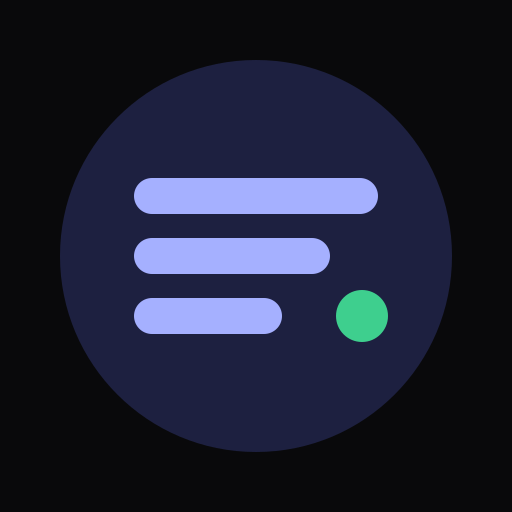
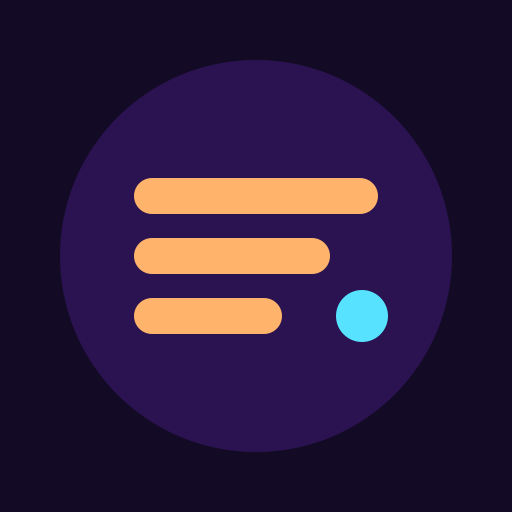
feat(comms-web): adopt the Vesper look with design kit 0.37.4
The overview is the home screen: an Agents header with how many agents run and how many need
you, over the Ringed Planet. Settings is a task screen with still stars; the project and activity
pages keep their title in the app bar and get the overview sky. The theme-color metas, the
manifest and the icon move to Dusk and Dawn.

diff --git a/apps/comms-web/src/Overview.tsx b/apps/comms-web/src/Overview.tsx
@@ -3,6 +3,7 @@ import {
   Alert,
   AppBar,
   ChipGroup,
+  Heading,
   IconButton,
   LiveIndicator,
   Page,
@@ -32,6 +33,14 @@ export interface OverviewProps {
   /** Opens the Settings page. */
   readonly onSettings: () => void;
 }
+
+/** How many agents run, and how many of them wait for the reader: `3 running · 1 needs you`. */
+export const agentSummary = (running: number, needsYou: number) =>
+  running === 0
+    ? 'No agents are running.'
+    : needsYou === 0
+      ? `${running} running`
+      : `${running} running · ${needsYou} need${needsYou === 1 ? 's' : ''} you`;
 
 const Group = ({
   title,
@@ -93,7 +102,6 @@ export const Overview = ({ client, onProject, onStarted, onSettings }: OverviewP
   useEffect(() => {
     if (filter !== chosen) setChosen(filter);
   }, [filter, chosen]);
-  const empty = data !== undefined && data.needsYou.length === 0 && groups.length === 0;
 
   return (
     <>
@@ -122,7 +130,19 @@ export const Overview = ({ client, onProject, onStarted, onSettings }: OverviewP
           else onProject(project, startedNotice(created));
         }}
       />
-      <Page>
+      <Page
+        kind="home"
+        header={
+          <Stack gap="2xs">
+            <Heading level={1}>Agents</Heading>
+            {data === undefined ? null : (
+              <Text tone="muted">
+                {agentSummary(data.needsYou.length + agentsOf(groups).length, data.needsYou.length)}
+              </Text>
+            )}
+          </Stack>
+        }
+      >
         <Stack gap="lg">
           {herdrAway === undefined ? null : (
             <Alert>Herdr is not running. The app keeps trying. ({herdrAway})</Alert>
@@ -163,7 +183,6 @@ export const Overview = ({ client, onProject, onStarted, onSettings }: OverviewP
                   }
                 />
               )}
-              {empty ? <Text tone="muted">No agents are running.</Text> : null}
             </>
           )}
         </Stack>

diff --git a/apps/comms-web/src/index-html.spec.ts b/apps/comms-web/src/index-html.spec.ts
@@ -10,8 +10,8 @@ import { afterEach, describe, expect, it, vi } from 'vitest';
 const app = join(import.meta.dirname, '..');
 const html = readFileSync(join(app, 'index.html'), 'utf8');
 
-const VOID = '#070b14';
-const DAYLIGHT = '#eef2f7';
+const DUSK = '#130b26';
+const DAWN = '#fbf5fb';
 
 describe('the page shell', () => {
   it('gives the bar the color of each theme', () => {
@@ -23,8 +23,8 @@ describe('the page shell', () => {
         meta.content,
       ]),
     ).toEqual([
-      ['dark', '(prefers-color-scheme: dark)', VOID],
-      ['light', '(prefers-color-scheme: light)', DAYLIGHT],
+      ['dark', '(prefers-color-scheme: dark)', DUSK],
+      ['light', '(prefers-color-scheme: light)', DAWN],
     ]);
   });
 });
@@ -67,15 +67,15 @@ describe('the start-up script', () => {
     },
   );
 
-  it('paints Daylight with its bar color when Light is stored, whatever the system', () => {
+  it('paints Dawn with its bar color when Light is stored, whatever the system', () => {
     localStorage.setItem(THEME_STORAGE_KEY, 'light');
-    expect(outcome(runScript)).toEqual({ theme: 'light', bar: [DAYLIGHT, DAYLIGHT] });
+    expect(outcome(runScript)).toEqual({ theme: 'light', bar: [DAWN, DAWN] });
   });
 
   it('leaves the page to the system setting when storage is blocked', () => {
     vi.spyOn(Storage.prototype, 'getItem').mockImplementation(() => {
       throw new Error('blocked');
     });
-    expect(outcome(runScript)).toEqual({ theme: undefined, bar: [VOID, DAYLIGHT] });
+    expect(outcome(runScript)).toEqual({ theme: undefined, bar: [DUSK, DAWN] });
   });
 });

diff --git a/apps/comms-web/src/overview.spec.tsx b/apps/comms-web/src/overview.spec.tsx
@@ -68,6 +68,13 @@ describe('the overview', () => {
     ).toEqual(['/agents/kirk', '/agents/w4%3Ap1']);
   });
 
+  it('heads the page with Agents and how many run and need the reader', async () => {
+    renderApp({ client: fakeClient({ overview }).client });
+
+    expect(await screen.findByRole('heading', { level: 1, name: 'Agents' })).toBeDefined();
+    expect(await screen.findByText('4 running · 2 need you')).toBeDefined();
+  });
+
   it('marks a row whose agent has background work running', async () => {
     const waiting = fakeAgent({
       status: 'done',

diff --git a/apps/comms-web/index.html b/apps/comms-web/index.html
@@ -7,13 +7,13 @@
       name="theme-color"
       data-scheme="dark"
       media="(prefers-color-scheme: dark)"
-      content="#070b14"
+      content="#130b26"
     />
     <meta
       name="theme-color"
       data-scheme="light"
       media="(prefers-color-scheme: light)"
-      content="#eef2f7"
+      content="#fbf5fb"
     />
     <meta name="apple-mobile-web-app-capable" content="yes" />
     <meta name="mobile-web-app-capable" content="yes" />

diff --git a/apps/comms-web/src/SettingsPage.tsx b/apps/comms-web/src/SettingsPage.tsx
@@ -199,7 +199,7 @@ export const SettingsPage = ({ client, onBack }: SettingsPageProps) => {
         title="Settings"
         end={<BrainstormAction />}
       />
-      <Page>
+      <Page kind="task">
         <Stack gap="lg">
           <ThemeSection />
           <Stack gap="sm">
